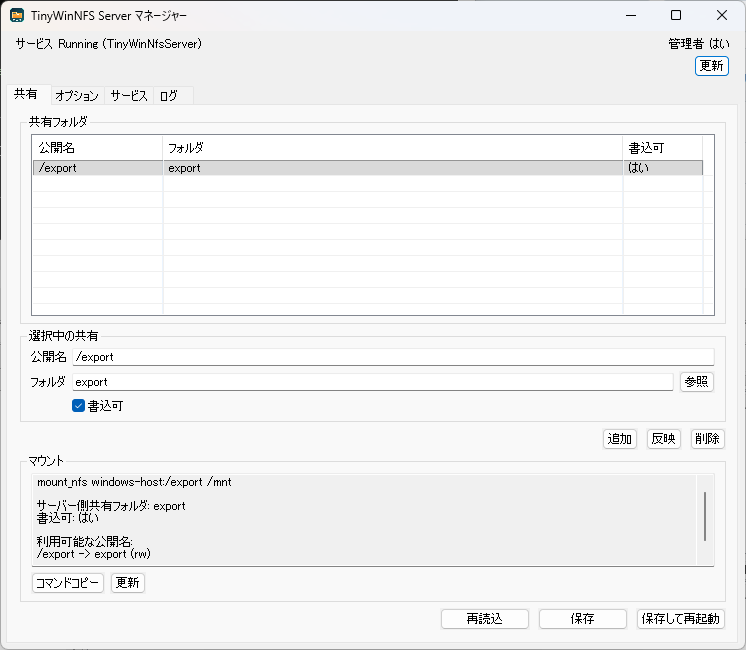
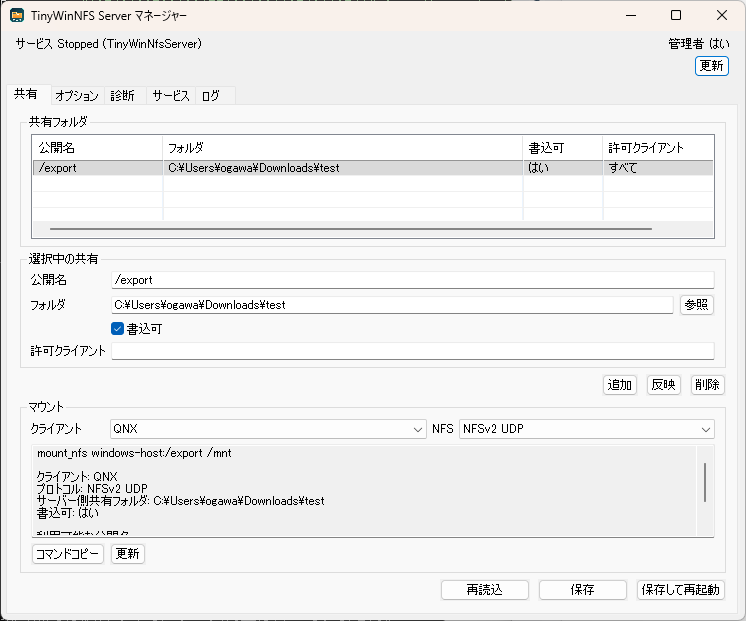
Update README manager screenshot

diff --git a/work/proposals/20260628_224604_readme_manager_image.md b/work/proposals/20260628_224604_readme_manager_image.md
@@ -1,0 +1,23 @@
+# README管理画面画像差し替え 提案書
+
+## 変更対象
+
+| ファイル | 変更内容 |
+|---|---|
+| `docs/images/tinywin-nfs-manager-ja.png` | README掲載用の日本語管理画面スクリーンショットを v2.0.0 相当の画面に差し替え |
+
+## 変更内容
+
+README の画像参照先は既存のまま維持します。
+
+```diff
+![TinyWinNFS Server マネージャー](docs/images/tinywin-nfs-manager-ja.png)
+```
+
+画像の内容を、診断タブと許可クライアント列が反映された新しい管理画面へ更新します。
+
+## 確認方針
+
+- `README.md` の画像参照先が変わっていないこと。
+- `docs/images/tinywin-nfs-manager-ja.png` が更新されていること。
+- `git diff --check` でテキスト差分に問題がないこと。